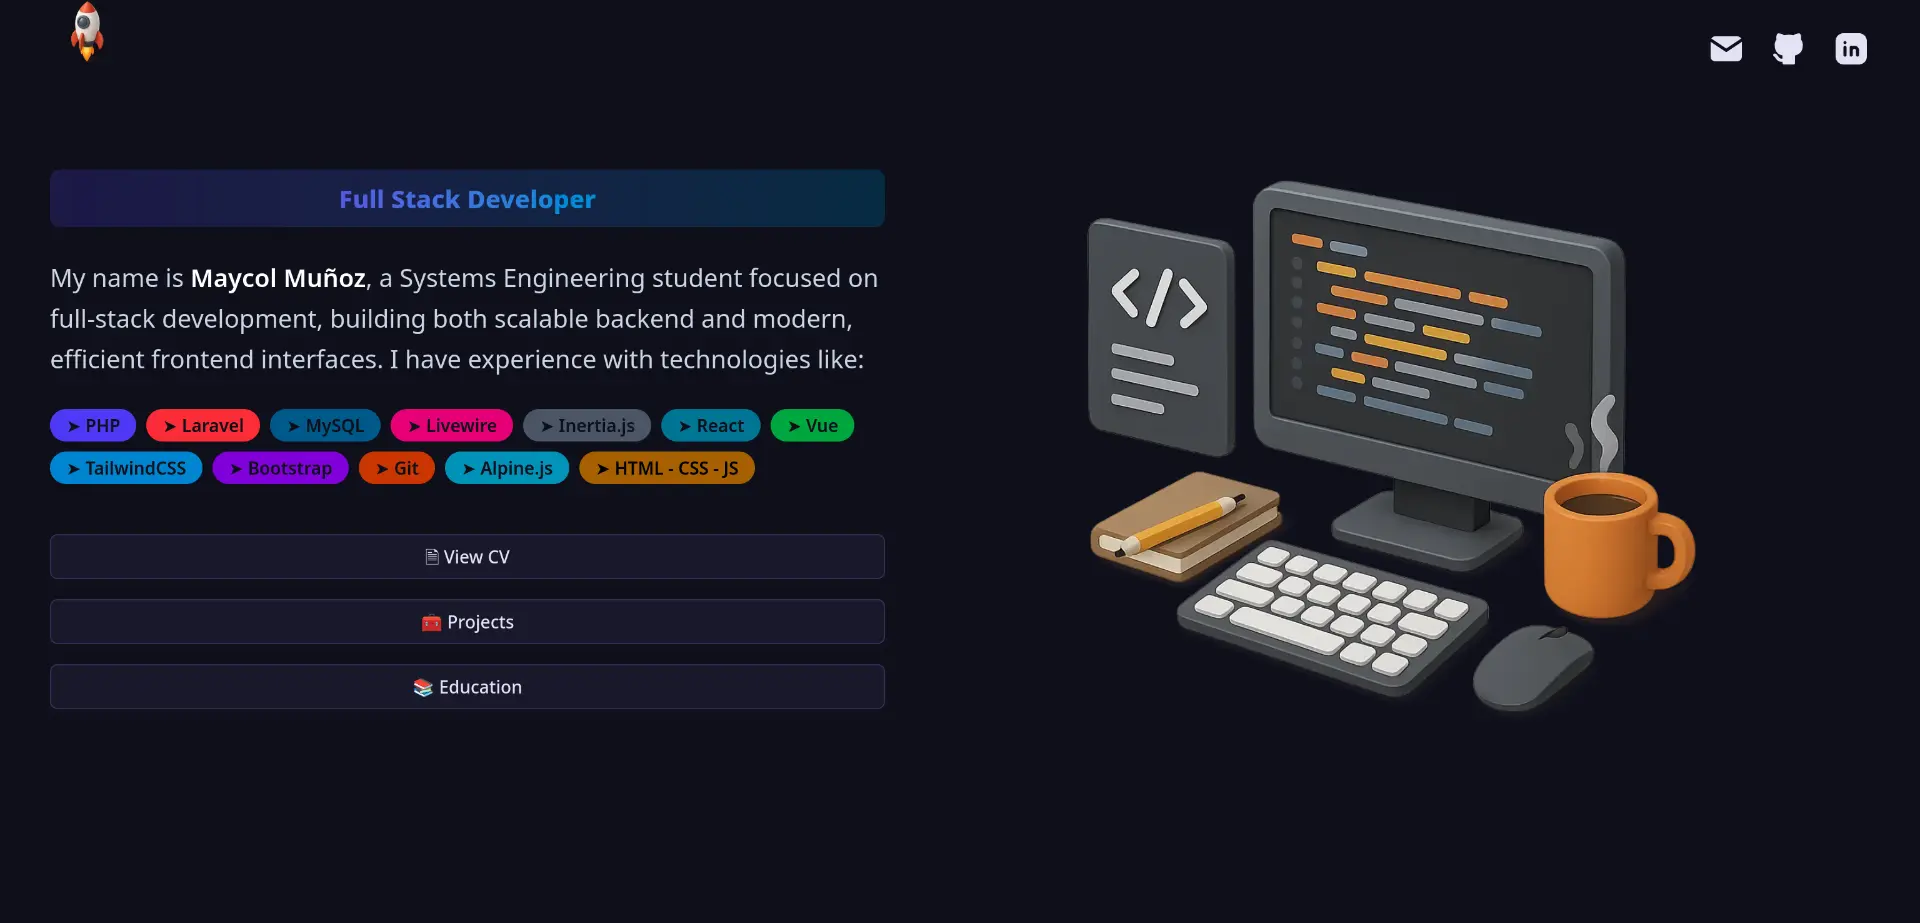
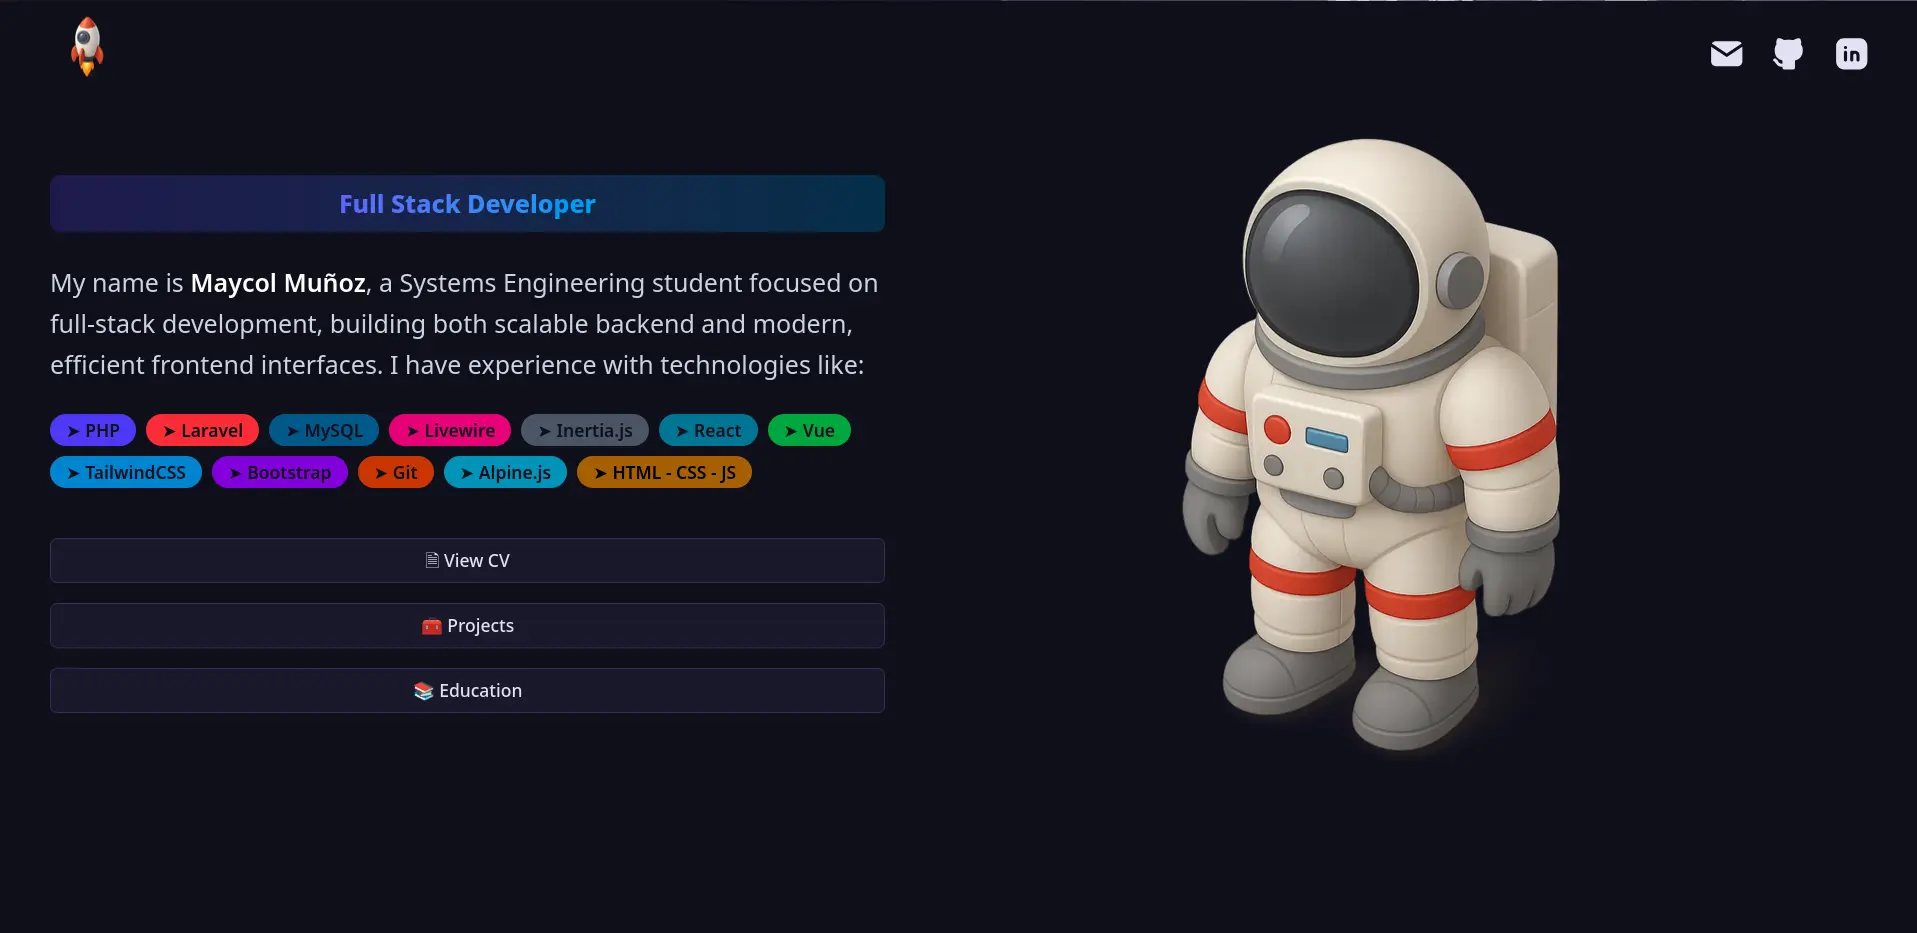
refactor: 💡 animations

diff --git a/src/index.css b/src/index.css
@@ -1,17 +1,56 @@
 @import "tailwindcss";
 @import "tw-animate-css";
 
-.float {
-  animation: float 3s ease-in-out infinite;
+.astronaut {
+  animation: float 4s ease-in-out infinite;
 }
 
 @keyframes float {
-  0%,
-  100% {
-    transform: translateY(0);
+  0% {
+    transform: translateY(0) rotate(0deg);
+  }
+  25% {
+    transform: translateY(-6px) rotate(-3deg);
   }
   50% {
-    transform: translateY(-10px);
+    transform: translateY(0) rotate(2deg);
+  }
+  75% {
+    transform: translateY(6px) rotate(-1deg);
+  }
+  100% {
+    transform: translateY(0) rotate(0deg);
+  }
+}
+
+.rocket {
+  animation: launch-land 3.5s ease-in-out infinite;
+}
+
+@keyframes launch-land {
+  0% {
+    transform: translateY(0) rotate(0deg);
+  }
+  10% {
+    transform: translateY(-6px) rotate(-1deg);
+  }
+  20% {
+    transform: translateY(0) rotate(1deg);
+  }
+  40% {
+    transform: translateY(-25px) rotate(0deg);
+  }
+  60% {
+    transform: translateY(-65px) rotate(0deg);
+  }
+  80% {
+    transform: translateY(-25px) rotate(0deg);
+  }
+  90% {
+    transform: translateY(-5px) rotate(0deg);
+  }
+  100% {
+    transform: translateY(0) rotate(0deg);
   }
 }
 

diff --git a/src/components/Navbar/Navbar.tsx b/src/components/Navbar/Navbar.tsx
@@ -4,7 +4,7 @@ import { contacts } from "@/utils/data";
 export default function Navbar() {
   return (
     <nav className="flex flex-col flex-wrap items-center px-10 py-2 mx-auto  md:flex-row">
-      <img src={rocket} className="w-15 animate-bounce" alt="rocket" />
+      <img src={rocket} className="w-15 rocket" alt="rocket" />
 
       <div className="flex flex-wrap items-center justify-around w-full space-x-0 md:w-auto md:ml-auto md:space-x-5 lg:justify-center mt-2">
         <a className="duration-200 hover:scale-125" href={contacts.email}>

diff --git a/src/components/Header/Header.tsx b/src/components/Header/Header.tsx
@@ -7,7 +7,7 @@ export default function Header() {
       <AboutMe />
 
       <article className="px-6 md:px-10">
-        <img src={Image} className="w-10/12  float" />
+        <img src={Image} className="w-10/12 astronaut" />
       </article>
     </main>
   );
